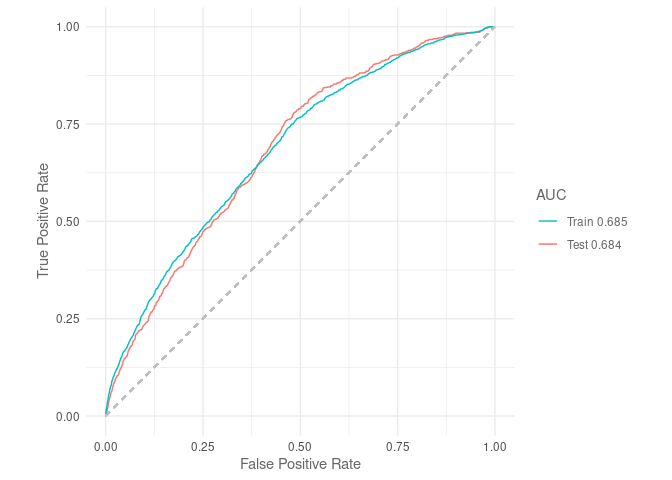
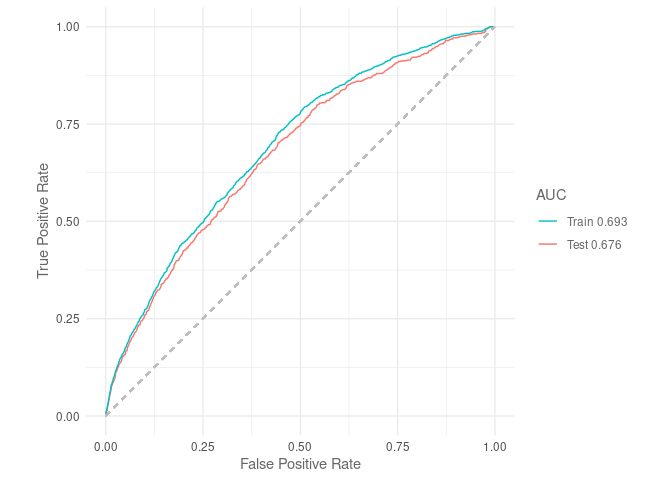
Finishing tests of background pts to presence ratio

diff --git a/Scripts/05_SDMs/01_Testing_background_pts_needed.md b/Scripts/05_SDMs/01_Testing_background_pts_needed.md
@@ -271,7 +271,7 @@ mod_bg_20 <- read_csv(file_20x) %>%
   drop_na()
 ```
 
-    ## Rows: 72973 Columns: 30
+    ## Rows: 110380 Columns: 30
     ## ── Column specification ────────────────────────────────────────────────────────
     ## Delimiter: ","
     ## chr  (5): date, season_year, life_stage, sector, zone
@@ -361,52 +361,3 @@ plotROC(default_model_bg20, test = data_bg20$test)
 Based on $AUC_{ROC}$ values calculated from both the training and
 testing datasets, we conclude that the higher background to observations
 ratio (20:1) will result in the best predictive performance.
-
-We will merge together these `background_20x` data and the crabeater
-observations into a single file.
-
-``` r
-#Loading data
-crabeaters <- read_csv(obs_file) %>% 
-  #Selecting observations for the Indian sector during the weaning period
-  filter(str_detect(sector, "Indian") & life_stage == "weaning")
-```
-
-    ## Rows: 3240 Columns: 32
-    ## ── Column specification ────────────────────────────────────────────────────────
-    ## Delimiter: ","
-    ## chr   (6): date, source, sector, zone, season_year, life_stage
-    ## dbl  (25): latitude, longitude, year, yt_ocean, xt_ocean, month, decade, pre...
-    ## dttm  (1): event_date
-    ## 
-    ## ℹ Use `spec()` to retrieve the full column specification for this data.
-    ## ℹ Specify the column types or set `show_col_types = FALSE` to quiet this message.
-
-``` r
-mod_bg_20 <- read_csv(file_20x)
-```
-
-    ## Rows: 72973 Columns: 30
-    ## ── Column specification ────────────────────────────────────────────────────────
-    ## Delimiter: ","
-    ## chr  (5): date, season_year, life_stage, sector, zone
-    ## dbl (25): year, month, longitude, latitude, xt_ocean, yt_ocean, decade, pres...
-    ## 
-    ## ℹ Use `spec()` to retrieve the full column specification for this data.
-    ## ℹ Specify the column types or set `show_col_types = FALSE` to quiet this message.
-
-``` r
-#Joining data together
-#Ensure both datasets have the same columns
-crab_bg_obs <- crabeaters %>% 
-  select(all_of(names(mod_bg_20))) %>% 
-  #Bind them together
-  bind_rows(mod_bg_20)
-
-#Save dataset
-#Define path out
-path_out <- "../../Environmental_Data/ACCESS-OM2-01/Obs_BG_20x_Indian_weaning.csv"
-#Saving data
-crab_bg_obs %>% 
-  write_csv(path_out)
-```
